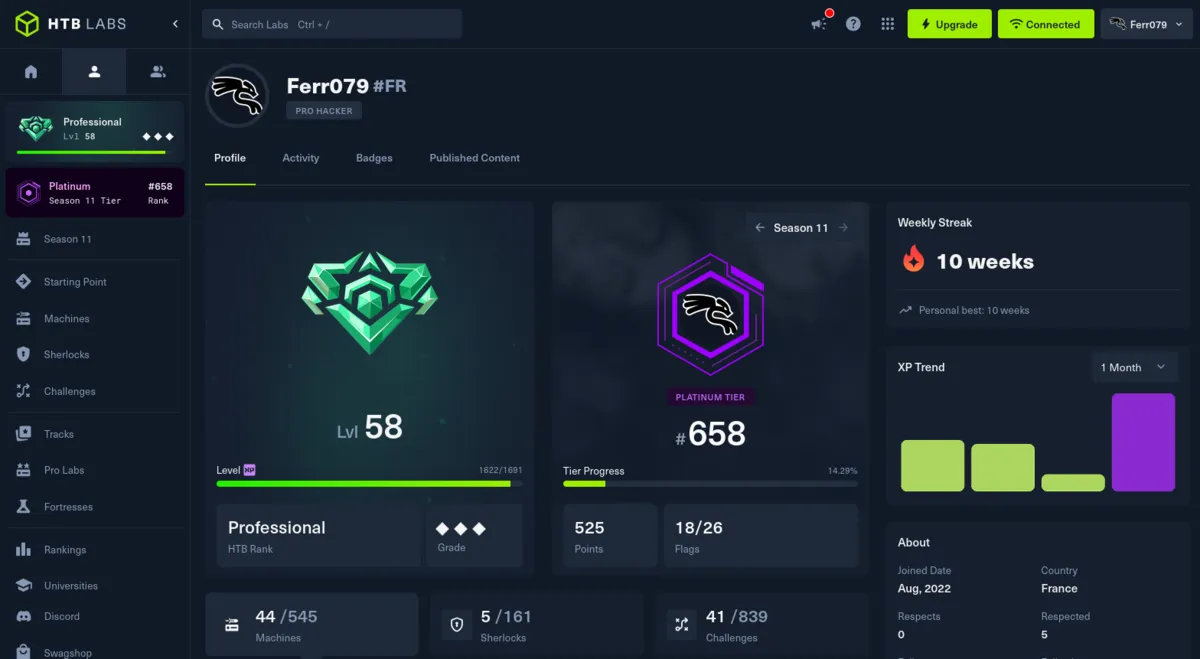
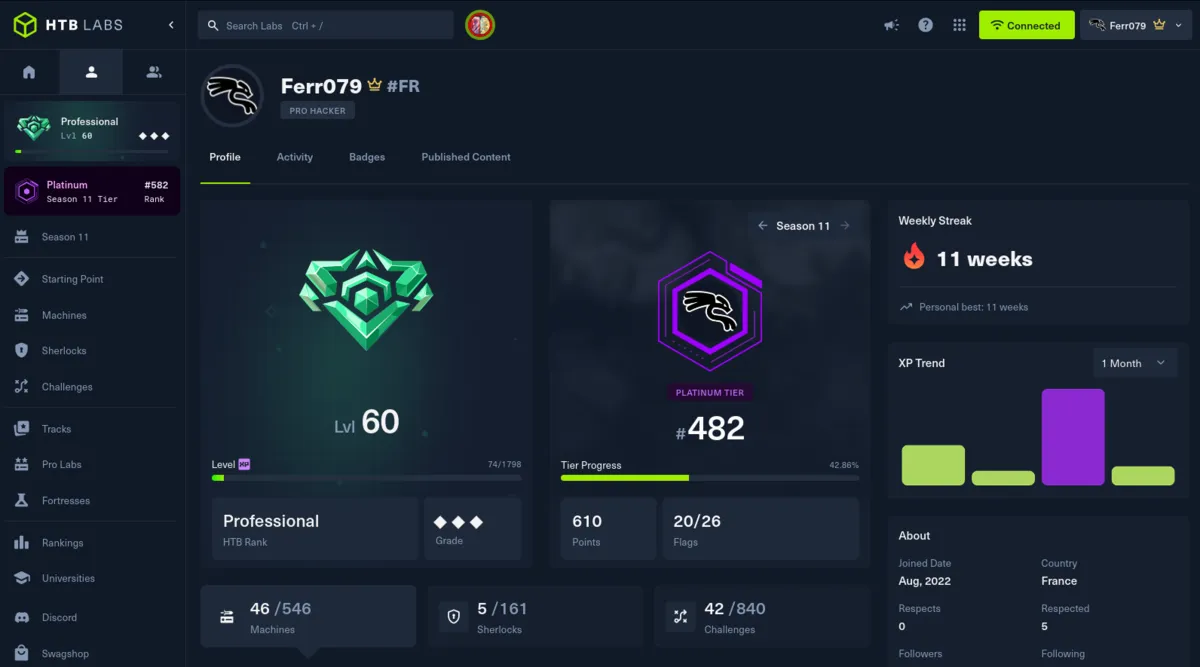
refresh: nouvelle box HTB — screenshot dashboard + fallback stats
Season 11 Platinum tier #482, Lvl 60, streak 11 sem. Live HTB API et KV
/api/stats déjà alignés (46 system + 49 user owns, 95 flags, #633 global) :
fallbacks ctf.astro/build-stats.ts/chat.ts/about.astro bumpés en cohérence.

diff --git a/src/pages/api/chat.ts b/src/pages/api/chat.ts
@@ -34,7 +34,7 @@ async function checkRateLimit(ip: string): Promise<{ allowed: boolean; retryAfte
 // moment de la requête (l'équivalent Worker d'un <DynNum>) ; les fallbacks ne
 // servent que si le KV est injoignable. rootme_validations n'est pas dans le KV.
 async function liveCtfStats(): Promise<Record<string, string>> {
-  const fb: Record<string, string> = { HTB_RANK: '698', HTB_RANK_NAME: 'Pro Hacker', HTB_FLAGS: '91', HTB_MACHINES: '44', ROOTME_SCORE: '1050' };
+  const fb: Record<string, string> = { HTB_RANK: '633', HTB_RANK_NAME: 'Pro Hacker', HTB_FLAGS: '95', HTB_MACHINES: '46', ROOTME_SCORE: '1050' };
   try {
     const stats = await env.STATS_KV.get('stats', { type: 'json' }) as Record<string, unknown> | null;
     const num = (v: unknown, f: string) => { const n = Number(v); return Number.isFinite(n) && n > 0 ? String(n) : f; };

diff --git a/src/lib/build-stats.ts b/src/lib/build-stats.ts
@@ -15,7 +15,7 @@
  * snapshot so a build never ships empty numbers.
  */
 
-// Last-known snapshot (2026-07-24). Only used if the build can't reach /api/stats.
+// Last-known snapshot (2026-07-28). Only used if the build can't reach /api/stats.
 const FALLBACK: Record<string, string | number> = {
   claude_hours: 5479,
   claude_cache_hit: 96.7,
@@ -28,11 +28,11 @@ const FALLBACK: Record<string, string | number> = {
   uptime_pct: 100,
   forgejo_commits_30d: 1109,
   proxmox_nodes: 4,
-  htb_flags: 91,
+  htb_flags: 95,
   htb_rank: 'Pro Hacker',
-  htb_ranking: 698,
-  htb_system_owns: 44,
-  htb_user_owns: 47,
+  htb_ranking: 633,
+  htb_system_owns: 46,
+  htb_user_owns: 49,
   rootme_score: 1050,
   rootme_validations: 75,
   rootme_position: 15486,

diff --git a/src/image-dims.ts b/src/image-dims.ts
@@ -4,7 +4,7 @@
 // space, kill CLS). Regenerate after adding/replacing images: ./scripts/gen-image-variants.sh
 export const IMAGE_DIMS: Record<string, [number, number]> = {
   "/images/homepage-dashboard.webp": [2944, 2049],
-  "/images/htb-dashboard.webp": [1200, 659],
+  "/images/htb-dashboard.webp": [1200, 667],
   "/images/immich-gallery-1.webp": [1920, 2022],
   "/images/immich-gallery-2.webp": [1920, 2022],
   "/images/monitoring/beszel.webp": [1200, 703],

diff --git a/CLAUDE.md b/CLAUDE.md
@@ -132,7 +132,7 @@ git push origin main   # origin = Forgejo (org pixelium) ; push-mirror → GitHu
 
 | Platform | Username | Current stats |
 |---|---|---|
-| Hack The Box | Ferr079 | Pro Hacker rank, #698, 44 system + 47 user owns, 91 flags (fallback ctf.astro + build-stats.ts + chat.ts + about.astro `DynNum` aligné sur le KV `/api/stats` — cf [[reference_ctf_htb_stats_freshness]], garder ce fallback à jour à la main). Lvl 58 « Professional » · Season 11 Platinum tier #658 · streak 10 sem. (screenshot `htb-dashboard.webp` MAJ 2026-07-23 = Pro Hacker/Lvl 58/Platinum #658/10-week ; `?v=20260723c`). ⚠ `/profile/activity` **supprimé par HTB 2026** (HTTP 400) → `flags = user_owns + system_owns`, ne PAS ré-ajouter d'appel activity. NB : `ranking` = rang **global** HTB (≠ `#658` = rang de saison du screenshot) |
+| Hack The Box | Ferr079 | Pro Hacker rank, #633, 46 system + 49 user owns, 95 flags (fallback ctf.astro + build-stats.ts + chat.ts + about.astro `DynNum` aligné sur le KV `/api/stats` — cf [[reference_ctf_htb_stats_freshness]], garder ce fallback à jour à la main). Lvl 60 « Professional » · Season 11 Platinum tier #482 · streak 11 sem. (screenshot `htb-dashboard.webp` MAJ 2026-07-28 = Pro Hacker/Lvl 60/Platinum #482/11-week ; `?v=20260728`). ⚠ `/profile/activity` **supprimé par HTB 2026** (HTTP 400) → `flags = user_owns + system_owns`, ne PAS ré-ajouter d'appel activity. NB : `ranking` = rang **global** HTB (≠ `#482` = rang de saison du screenshot) |
 | TryHackMe | ferr0 | Top 15%, 35 rooms, 7 badges |
 | Root-Me | Ferr0 | 1050 pts, 75 challenges, #15486 (fallback ctf.astro + build-stats.ts ; score live au build, `rootme_validations`/`rootme_position` absents du KV live — homelab `infra/homelab#117`, gardés en fallback à jour à la main) |
 | GitHub | ferr079 | github.com/ferr079 |
